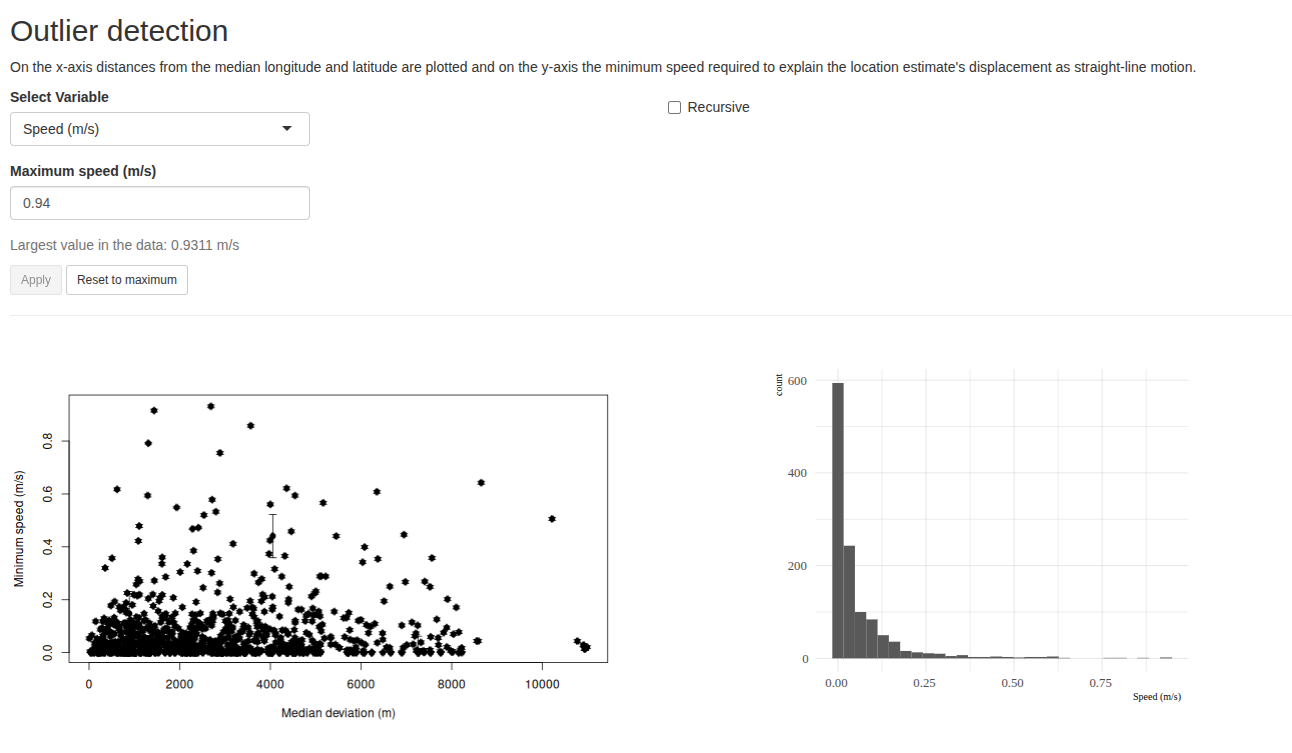
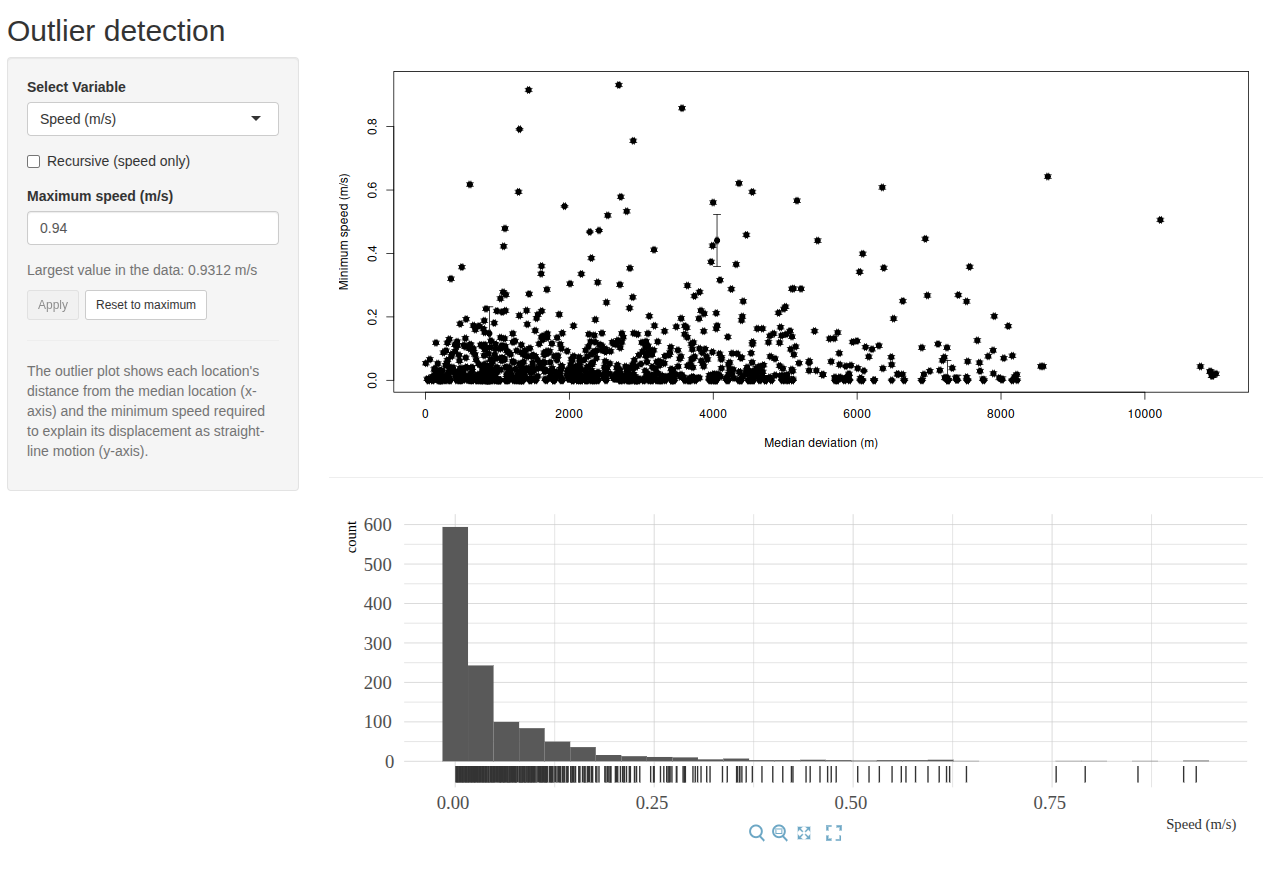
Update README

diff --git a/README.md b/README.md
@@ -20,12 +20,20 @@ relocation's displacement as straight-line motion, accounting for telemetry
 error.
 
 The App shows ctmm's outlier plot and a histogram of values for either
-distance or speed. The histogram displays the location of individual values
-below the plot so isolated values are more easily identified.
+distance or speed. A row of ticks below the histogram marks individual values,
+making isolated values easier to identify. Hover over a tick to see its value.
 
-The user enters a maximum value for either speed or distance, and
-relocations above that value are removed from the output data and the App's
-plots.
+Enter a maximum value for either speed or distance to remove relocations above
+that value from the output data and the App's plots.
+
+This app only allows you to filter on one variable (speed or distance) at a
+time. In general, it is preferable to first attempt to identify outliers based
+on speed, as long gaps between fixes can lead to large distances between
+observations that are nonetheless reasonable given the time gap between them.
+If you remove speed-based outliers and still find anomalous distances,
+you can run this app again using distance-based filtering to remove them as
+well. Simply add this app to your workflow twice, using the first one to
+filter for speed and the second to filter for distance.
 
 ### Application scope
 #### Generality of App usability
@@ -49,10 +57,10 @@ none
 from the median location (m). Default: speed.
 
 **Recursive**: If checked, filtering is done recursively. That is, each time
-a relocation is removed, the speed is re-estimated using the remaining points.
-Any newly-calculated speeds that also exceed the input threshold are then
-removed, and so on until no speeds exceed the threshold. This option is only
-available when filtering on speed.
+relocations are removed, the speed is re-estimated using the remaining points.
+Any newly-calculated speeds that also exceed the maximum speed threshold are
+then removed. This continues until no speeds exceed the threshold. This option
+is only available when filtering on speed.
 
 **Maximum speed / Maximum distance**: The largest value of the selected
 variable to retain in the data. Relocations above this value are removed once
@@ -63,10 +71,10 @@ the **Apply** button is clicked. By default no points are removed.
 the value in the **Maximum speed** or **Maximum distance** box is yet to be
 applied.
 
-**Reset to maximum**: Set the cutoff back to the default value for the
+**Reset to maximum**: Set the cutoff value back to the default for the
 selected variable and apply it. This re-adds all points that had been removed.
 
-**Store settings**: click to store the current settings of the app for future
+**Store settings**: Click to store the current settings of the app for future
 workflow runs.
 
 ### Changes in output data
